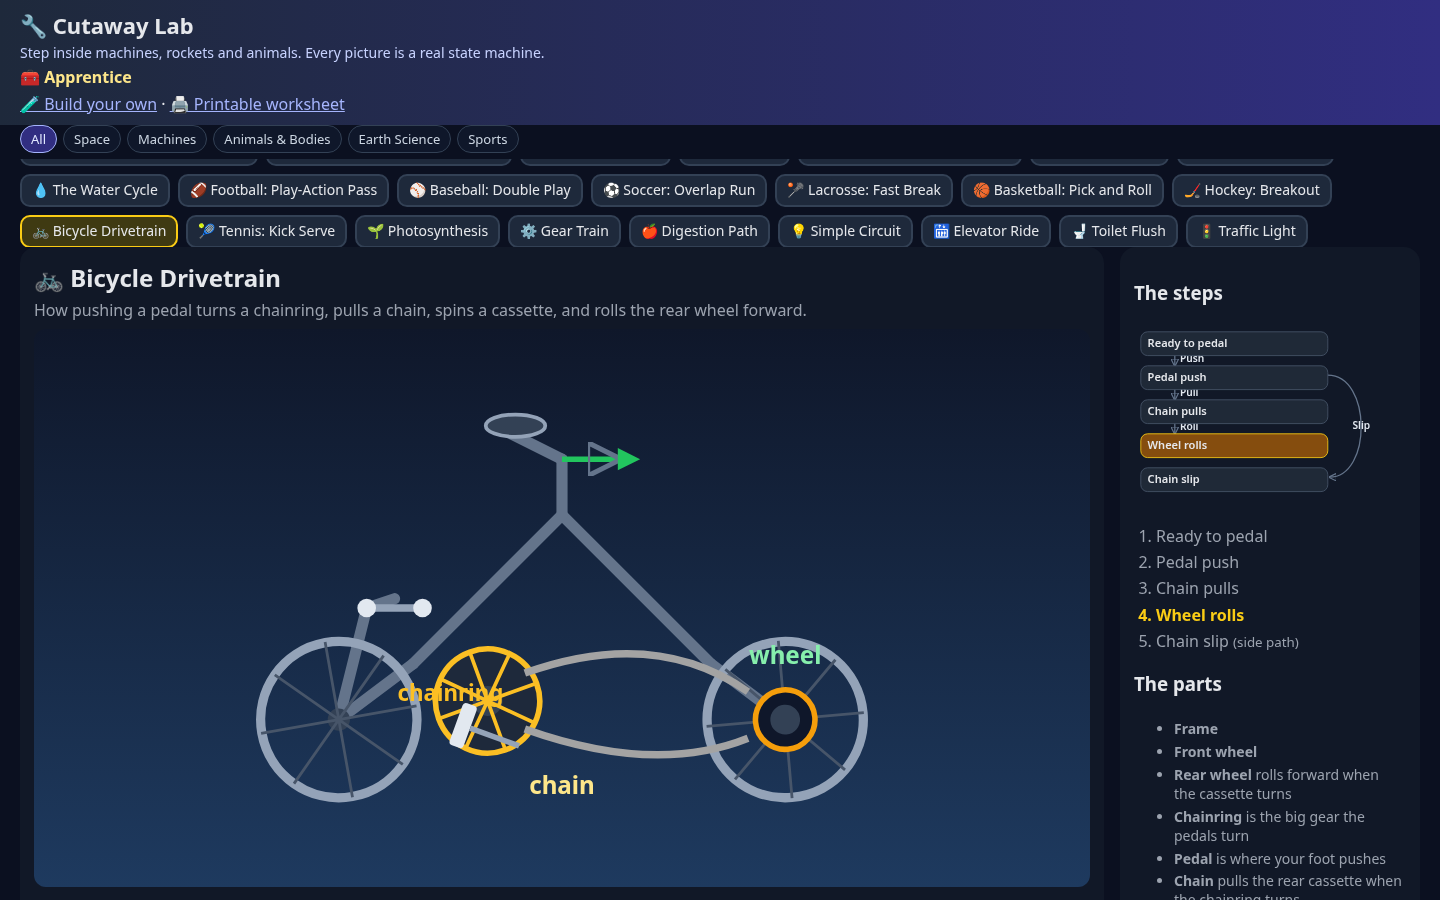
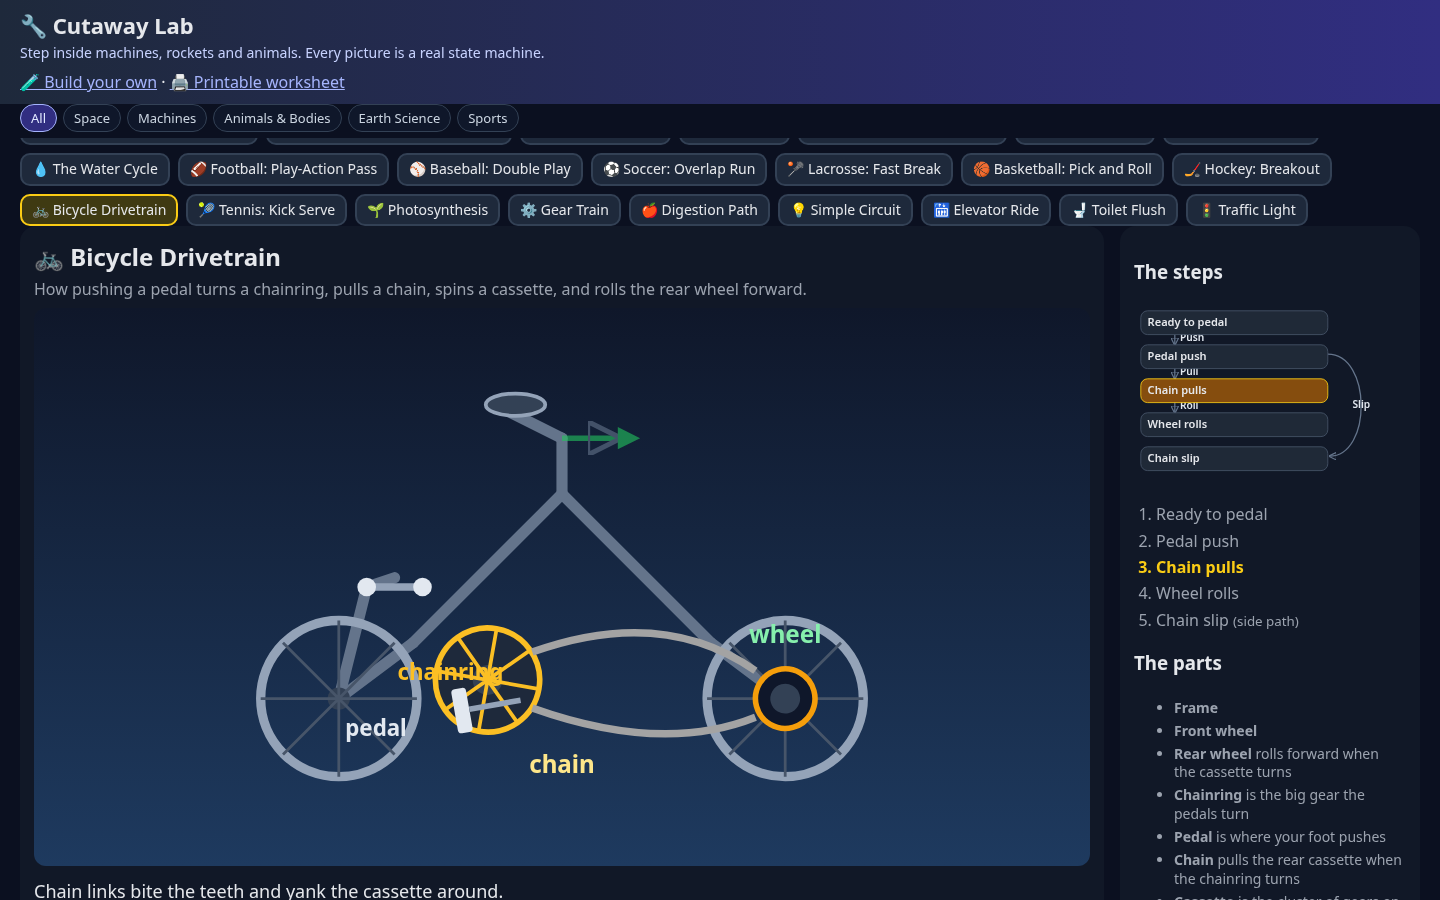
v1.0: harden baseball e2e walk; bike pedal caption

Changed region(s): [[0.0, 0.0622, 1.0, 1.0], [0.1562, 0.4356, 0.625, 0.9022], [0.0, 0.9644, 0.7812, 1.0]]

diff --git a/e2e/run.js b/e2e/run.js
@@ -57,7 +57,7 @@ await t('every machine walks its main path to the end in the browser', async () 
 await t('reduced motion: no transition', async () => { await page.emulateMedia({ reducedMotion: 'reduce' }); await page.goto(URL + '#frog'); assert.equal(await page.$eval('#stage .part', (g) => getComputedStyle(g).transitionDuration), '0s'); await page.emulateMedia({ reducedMotion: 'no-preference' }); });
 await page.goto(URL + '#frog/legs'); await page.waitForTimeout(1000); await page.evaluate(() => scrollTo(0, 0)); await page.screenshot({ path: `${out}/frog.png` });
 await t('sports: football play-action to catch', async () => { await page.goto(URL + '#football'); for (let i = 0; i < 4; i++) await page.keyboard.press('ArrowRight'); assert.match(page.url(), /catch/); });
-await t('sports: baseball twin killing', async () => { await page.goto(URL + '#baseball'); for (let i = 0; i < 4; i++) await page.keyboard.press('ArrowRight'); assert.match(page.url(), /twinKill/); });
+await t('sports: baseball twin killing', async () => { await page.goto(URL + '#baseball/pitch'); await page.waitForTimeout(200); for (let i = 0; i < 4; i++) { await page.keyboard.press('ArrowRight'); await page.waitForTimeout(80); } assert.match(page.url(), /twinKill/); });
 await t('sports: soccer cut-back', async () => { await page.goto(URL + '#soccer'); for (let i = 0; i < 3; i++) await page.keyboard.press('ArrowRight'); assert.match(page.url(), /cross/); });
 await t('sports: lacrosse dish', async () => { await page.goto(URL + '#lacrosse'); for (let i = 0; i < 3; i++) await page.keyboard.press('ArrowRight'); assert.match(page.url(), /dish/); });
 await page.goto(URL + '#football/throw'); await page.waitForTimeout(900); await page.evaluate(() => scrollTo(0, 0)); await page.screenshot({ path: `${out}/football.png` });

diff --git a/machines/bike.js b/machines/bike.js
@@ -15,6 +15,8 @@ export default {
       svg: '<text x="140" y="200" text-anchor="middle" fill="#fbbf24" font-size="12" font-weight="700">chainring</text>' },
     { id: 'pedal', label: 'Pedal', job: 'is where your foot pushes',
       svg: '<rect x="148" y="228" width="24" height="8" rx="2" fill="#e2e8f0"/><path d="M160 200 V228" stroke="#94a3b8" stroke-width="3"/>', explode: [-20, 30] },
+    { id: 'lblPedal', label: 'Pedal label',
+      svg: '<text x="100" y="230" text-anchor="middle" fill="#e2e8f0" font-size="12" font-weight="700">pedal</text>' },
     { id: 'chain', label: 'Chain', job: 'pulls the rear cassette when the chainring turns',
       svg: '<path d="M180 185 Q250 160 300 195" stroke="#a3a3a3" stroke-width="4" fill="none"/><path d="M180 215 Q250 240 300 220" stroke="#a3a3a3" stroke-width="4" fill="none"/>', explode: [0, -35] },
     { id: 'lblChain', label: 'Chain label',
